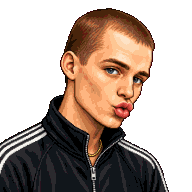
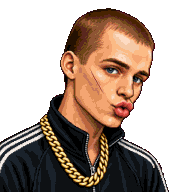
Rafał dres: łańcuch, blizna, ciosy i rzut kastetem; bossowie misji w README

diff --git a/README.md b/README.md
@@ -29,8 +29,8 @@ Inspiracja: **Mustache Protocol** (Henry Cavill + Google) – 16-bitowy side-scr
 | Postać | Rola | Opis |
 |--------|------|------|
 | **Arek** | bohater | okulary, broda; w grze złota zbroja z peleryną i mieczem, w intro wersja casual |
-| **Ksiądz Kamil** | antagonista / boss | rude krótkie włosy, czarna sutanna, jeździ czerwonym hatchbackiem, rzuca krzyżykami |
-| **Rafał dres** | dresiarz | blady, szczupły, jasnobrązowy jeżyk i charakterystyczny dzióbek; błyszczący czarny dres z białymi paskami, białe buty, złoty łańcuszek (grafiki gotowe, jeszcze niepodpięte w grze) |
+| **Ksiądz Kamil** | antagonista / boss | rude krótkie włosy, czarna sutanna, jeździ czerwonym hatchbackiem, rzuca krzyżykami – boss w **misjach 4 i 6** |
+| **Rafał dres** | dresiarz / boss misji 2 | blady, szczupły, jasnobrązowy jeżyk, charakterystyczny dzióbek, **blizna na policzku** i **duży, gruby złoty łańcuch**; błyszczący czarny dres z białymi paskami, białe buty. Umiejętności specjalne: **walka na pięści** i **rzut kastetem** (grafiki gotowe, jeszcze niepodpięte w grze) |
 | **Fibi** | pies | mały czarno-brązowy kundelek (portret na ekranie tytułowym, w intro i w arenie) |
 
 ## Przebieg gry
@@ -79,6 +79,15 @@ Inspiracja: **Mustache Protocol** (Henry Cavill + Google) – 16-bitowy side-scr
    5. Pojawia się napis **WYGRAŁEŚ!** (z fanfarą).
    6. Arek odchodzi **w lewo** za ekran (dobiega do niego Fibi).
    7. Ekran **KONIEC GRY** z przyciskami MENU (Enter) i PLAY AGAIN (R).
+
+## Misje / bossowie (plan)
+Docelowy podział na misje (jeszcze niezaimplementowany w kodzie; obecnie w grze są poziom 1–2 i walki z Kamilem):
+
+| Misja | Boss | Uwagi |
+|-------|------|-------|
+| 2 | **Rafał dres** | walka na pięści (ciosy: prosty, sierpowy) i **rzut kastetem** (pocisk `rafal_dres_kastet`, z obrotem); blizna na policzku, duży złoty łańcuch |
+| 4 | **ksiądz Kamil** | boss w misji 4 |
+| 6 | **ksiądz Kamil** | boss w misji 6 |
 
 ## Muzyka i dźwięk
 
@@ -163,7 +172,11 @@ assets/
 │   ├── ksiadz_kamil_bubble_haha.png      # dymek „HA HA!” (96×50, ogonek w lewo-dół; rysowany pikselowo)
 │   │                   #   Rafał dres (jeszcze niepodpięty w grze):
 │   ├── rafal_dres_stand.png              # stoi, w prawo (49×160)
-│   └── rafal_dres_walk_1..4.png          # chód, 4 klatki (74/58/65/67×160, jedna skala ze stand)
+│   ├── rafal_dres_walk_1..4.png          # chód, 4 klatki (74/55/67/61×160, jedna skala ze stand)
+│   ├── rafal_dres_punch_1..3.png         # ciosy: zamach, prosty, sierpowy (75–89×155, ta sama skala co stand/walk)
+│   ├── rafal_dres_throw_1..2.png         # rzut kastetem: zamach, wypuszczenie (78–89×153)
+│   ├── rafal_dres_kastet.png             # pocisk – kastet (30×17)
+│   └── rafal_dres_kastet_spin_1..2.png   # obrót kastetu w locie (25×24 pod kątem, 4×24 bokiem)
 ├── portraits/          # portrety do dialogów (Fibi, Kamil, ...)
 │   └── rafal_dres_portrait_front.png  # Rafał dres (192×192)
 └── game/               # przetworzone sprite'y do gry + assets.js (data-URI)
